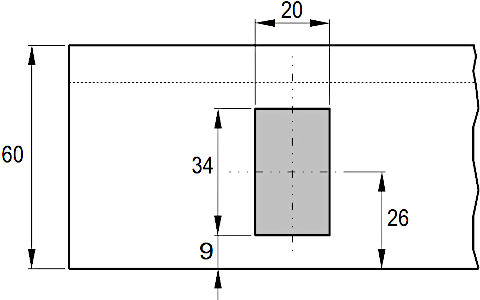
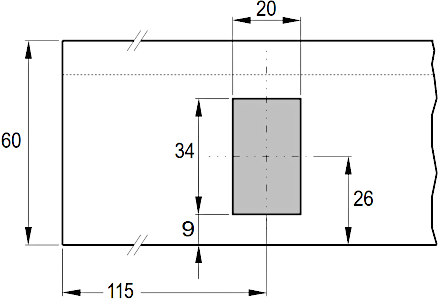
Update LIESMICH

diff --git a/examples/module15/LIESMICH.md b/examples/module15/LIESMICH.md
@@ -136,7 +136,25 @@ Der Bahnkörper kann entweder traditionell aus Holz, Kork und Schaumstoff oder i
 ![M15 Bahndamm](./images/300_m15_embankment_1.png "M15 Bahndamm")  
 
 ### 2.2.5 Kleinteile
-8x Schraube M3 x 30 mm Senkkopf, Kreuzschlitz, selbstschneidend []()  (zB Fa. Spax 4 003530 021251)   
+
+| St&uuml;ck | Bezeichnung | Anmerkung |  
+|:-----:|:--------------|:----------|  
+|  8  |  Schraube M3 x 30 mm Senkkopf, Kreuzschlitz, selbstschneidend  |  zB Fa. Spax 4 003530 021251  |  
+|  4  | Abstandsbolzen M3 x 10 + 6 mm, Messing  |  |  
+|  4  | Beilagscheiben M3, Da 9 mm, Edelstahl |  |  
+|  4  | Mutter M3 |  |  
+
+### 2.2.6 Staubabdeckung
+Falls eine Staubabdeckung gewünscht ist:  
+
+| St&uuml;ck | Bezeichnung | Anmerkung |  
+|:-----:|:--------------|:----------|  
+|  4  | Rändelschraube M3 x 10 |  |  
+|  1  | 5 mm Plexiglas 250 x 230 mm² | Vorne |  
+|  1  | 5 mm Plexiglas 250 x 265 mm² | "Deckel" |  
+|  1  | 10 mm Pappelsperrholz 250 x 230 mm² | Rückwand |  
+
+Siehe dazu auch [https://github.com/khartinger/RCC5V/blob/main/info/dust_cover/LIESMICH.md](https://github.com/khartinger/RCC5V/blob/main/info/dust_cover/LIESMICH.md)  
 
 <a name="x23"></a>   
 
@@ -195,13 +213,17 @@ Die beiden Sechskant-Ausnehmungen (Seitenlänge M 3 mm) dienen zur Befestigung e
 
 ![Rahmen_Front_S__230mm_Dimension](/images/300_Rahmen_Front_S__230mm_dim.png "Rahmen_Front_S__230mm_Dimension")   
 
+![Rahmen_Front_S__230mm_Dimension](/images/300_Rahmen_Front_S__230mm_dim.png "Rahmen_Front_S__230mm_Dimension")   
+
+
+
 <a name="x34"></a>   
 
 ## 3.4 Nordteil `Rahmen_Back_N__2xP20_230mm_261008`
 
 ![Rahmen_Back_N__2xP20_230mm_261008](/images/3d/300_Rahmen_Back_N__2xP20_230mm_261008.png "Rahmen_Back_N__2xP20_230mm_261008")   
 
-Größe der Ausnehmung für die P20-Stecker:  
+Maße der Ausnehmung für die P20-Stecker:  
 ![P20 Ausnehmung](/images/300_P20_frame_hole.png "P20 Ausnehmung")   
 
 <a name="x35"></a>   
